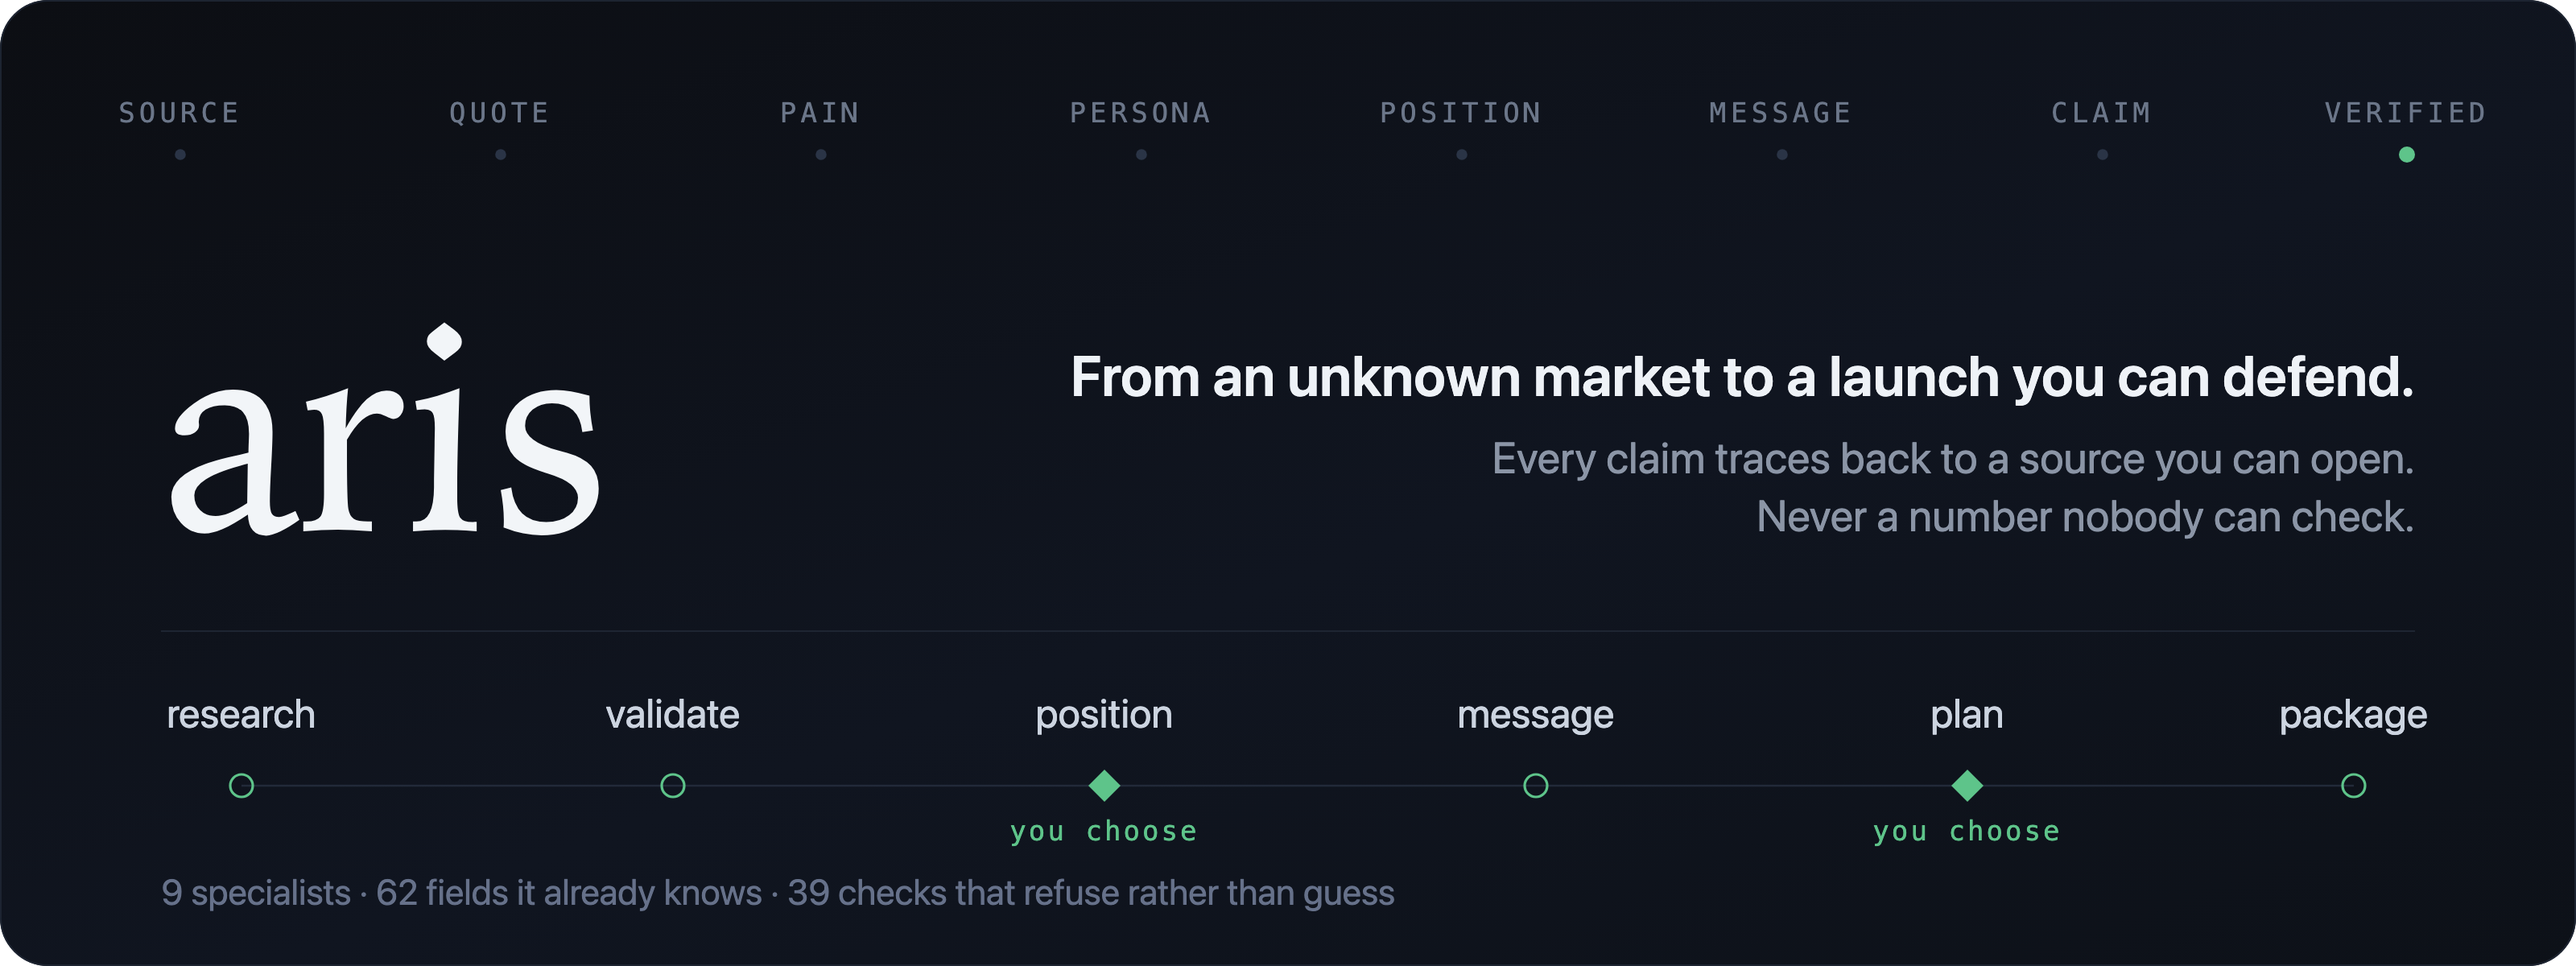
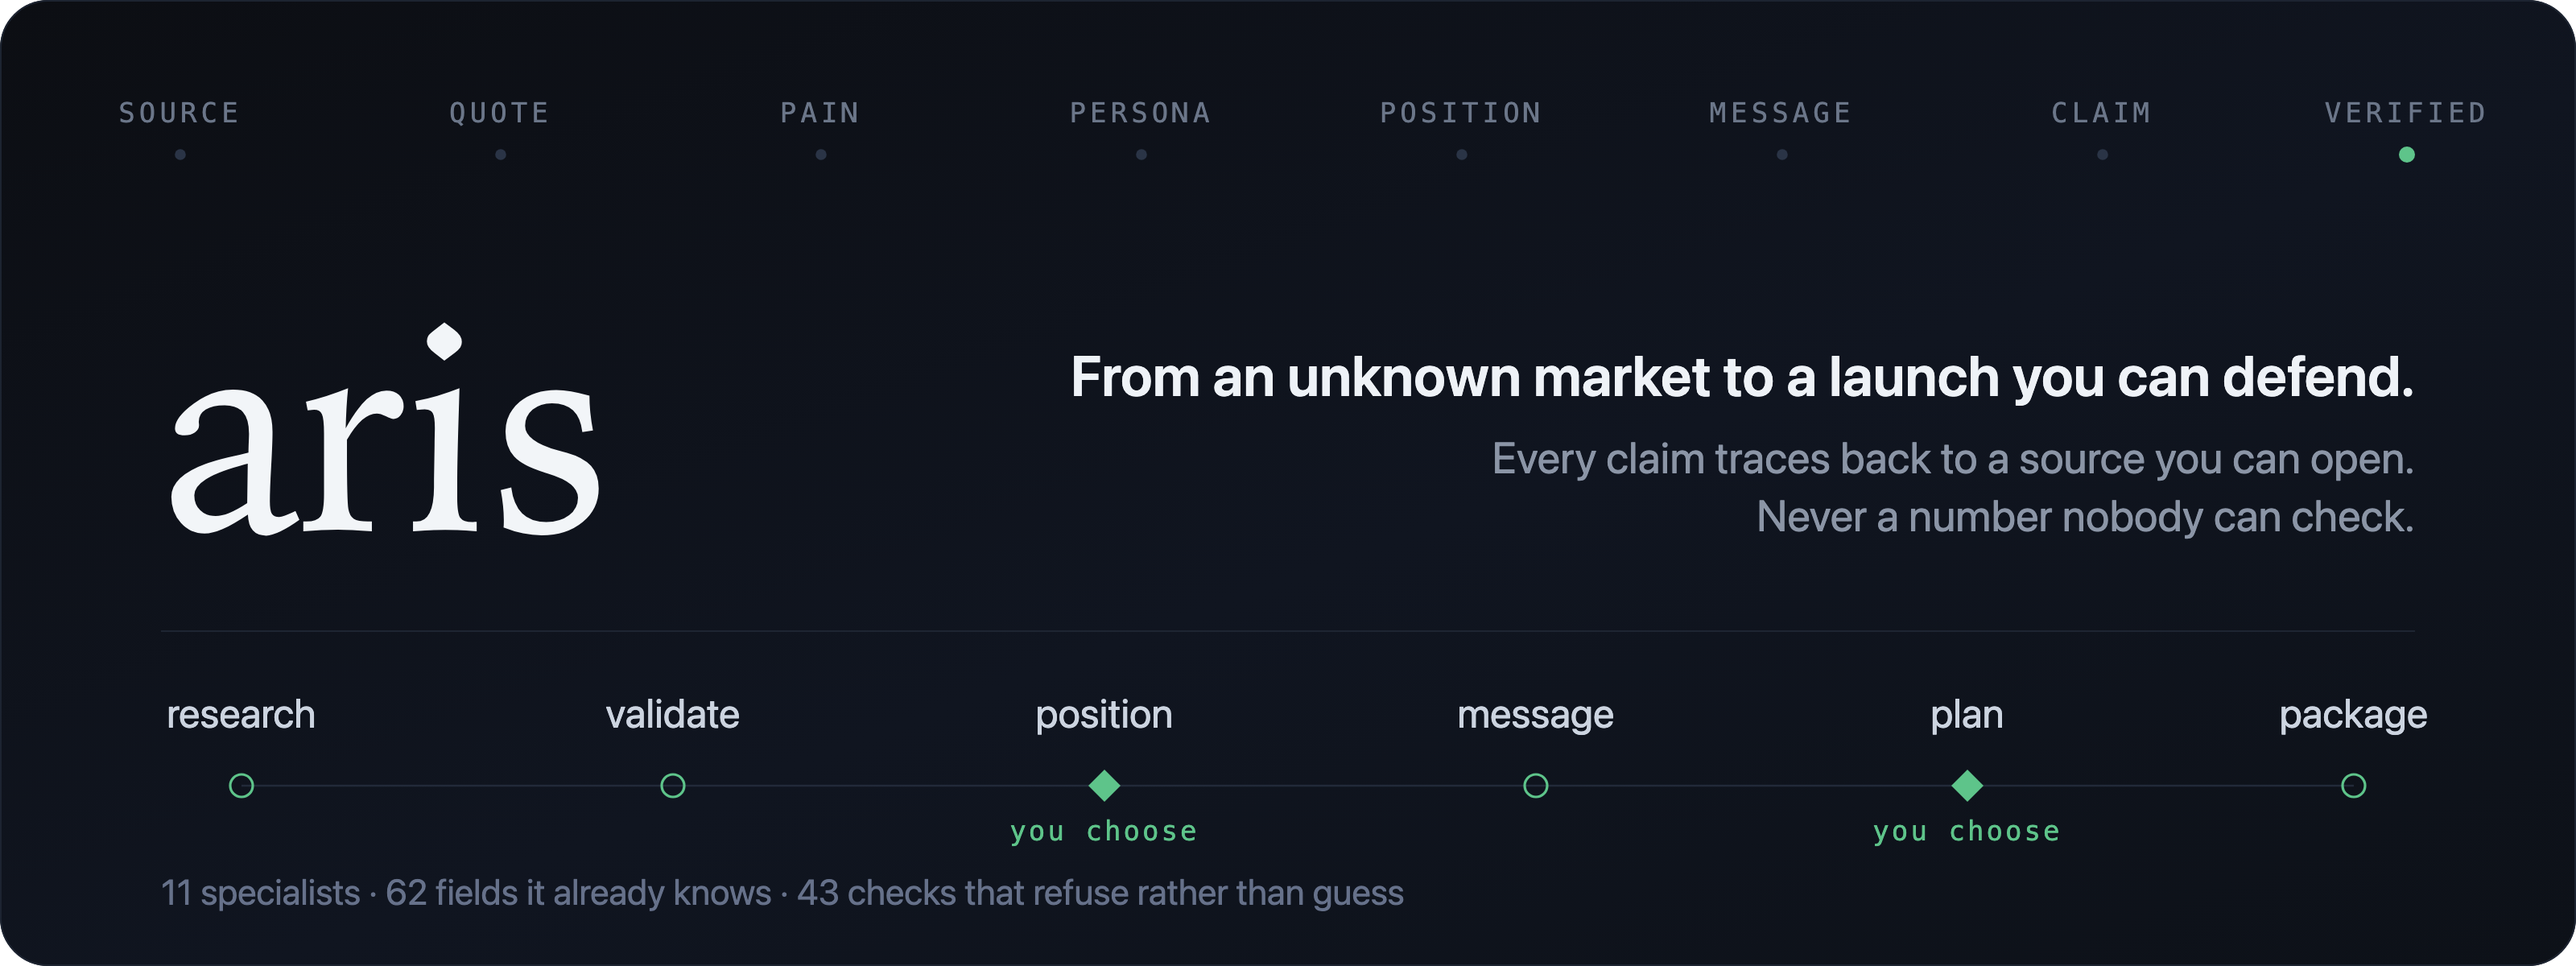
Make the README describe what the plugin actually is
Every number in it had drifted, and the largest claim was simply false.

It said the commands had never been run against a real market. They have, once,
end to end, and that run changed the tool more than any amount of design did.
The status section now says so and lists the four findings someone should know
before their first run: the big review sites return 403 and most sector entries
point at them; prices are often injected by JavaScript so a fetch returning no
number has proved nothing; letting the model choose competitors picks whoever
has the best international SEO and misses the local incumbent a buyer already
owns; and the run was stopped by its user because the research step dispatched
one deep agent per competitor.

Numbers corrected: 9 specialists to 11, 39 checks to 43, on both the badges and
the banner. /aris-runway and /aris-evidence existed but appeared nowhere, so
nobody reading the README could have found them.

The flow diagram stopped at the launch, which was accurate when every asset was
acquisition and is not any more. It now carries through to keeping the people
who arrive.

Changed region(s): [[0.0625, 0.8942, 0.5625, 0.9558]]

diff --git a/README.md b/README.md
@@ -11,8 +11,8 @@
 <p align="center">
   <img src="https://img.shields.io/badge/version-0.1.0-4c566b?style=flat-square&labelColor=161b25" alt="version 0.1.0">
   <img src="https://img.shields.io/badge/fields-62-4c566b?style=flat-square&labelColor=161b25" alt="fields 62">
-  <img src="https://img.shields.io/badge/specialists-9-4c566b?style=flat-square&labelColor=161b25" alt="specialists 9">
-  <img src="https://img.shields.io/badge/checks-39%20fail--closed-4c566b?style=flat-square&labelColor=161b25" alt="39 checks, fail-closed">
+  <img src="https://img.shields.io/badge/specialists-11-4c566b?style=flat-square&labelColor=161b25" alt="specialists 11">
+  <img src="https://img.shields.io/badge/checks-43%20fail--closed-4c566b?style=flat-square&labelColor=161b25" alt="43 checks, fail-closed">
   <img src="https://img.shields.io/badge/licence-MIT-4c566b?style=flat-square&labelColor=161b25" alt="MIT licence">
 </p>
 
@@ -27,18 +27,21 @@ you open in a browser where **clicking any sentence shows you the source it came
 ## How it runs
 
 ```
-     you                                                              you
-   describe                                                         review
-      │                                                                │
-      ▼                                                                ▼
-  ┌────────┐   ┌──────────┐   ┌──────────┐   ┌─────────┐   ┌──────┐   ┌─────────┐
-  │research│──▶│ validate │──▶│ position │──▶│ message │──▶│ plan │──▶│ package │
-  └────────┘   └──────────┘   └────┬─────┘   └─────────┘   └──┬───┘   └─────────┘
-   who else       is there         │           what do        │         one HTML
-   is here,       demand,          ▼           we say         ▼         file you
-   what hurts     and for whom  you choose                 you choose   can share
-                                the direction              channels
-                                                           and price
+     you                                                        you        you
+   describe                                                   review     decide
+      │                                                          │          │
+      ▼                                                          ▼          ▼
+  ┌────────┐   ┌──────────┐   ┌─────────┐   ┌──────┐   ┌─────────┐   ┌────────┐
+  │research│──▶│ position │──▶│ message │──▶│ plan │──▶│ package │──▶│ launch │
+  └────────┘   └────┬─────┘   └─────────┘   └──┬───┘   └─────────┘   └───┬────┘
+   who else         │           what do        │         one page        │
+   is here,         ▼           we say         ▼         you can         ▼
+   what hurts   you choose                 you choose    share       ┌────────┐
+                the direction              channels                  │  keep  │
+                                           and price                 │  them  │
+                                                                     └────────┘
+                                                              activation, retention,
+                                                              twelve weeks of cadence
 ```
 
 It stops **only** where a person has a real choice, and shows you options it has already
@@ -159,7 +162,7 @@ claim fails closed, and `/aris-sector <name>` researches it properly.
 
 ## The specialists
 
-Nine roles, dispatched in parallel, each seeing only its own slice:
+Eleven roles, dispatched in parallel, each seeing only its own slice:
 
 | | |
 |:--|:--|
@@ -170,10 +173,11 @@ Nine roles, dispatched in parallel, each seeing only its own slice:
 | `aris-channel-analyst` | one per channel — argues its case, never ranks the others |
 | `aris-evaluator` | one per persona — tests the messaging against that persona's evidence |
 | `aris-copywriter` | one per asset — the only one with Write, and it cannot invent a claim |
+| `aris-claim-verifier` | **opens each cited page and answers whether it supports that exact sentence** |
 | `aris-compliance-reviewer` | the regulated-claims lens, and it never sees who wrote the copy |
 | `aris-sector-researcher` | bootstraps a field the base doesn't cover |
 
-Seven of the nine have **no Write or Edit**, deliberately. A reviewer who rewrites has
+Nine of the eleven have **no Write or Edit**, deliberately. A reviewer who rewrites has
 already decided how to resolve the finding, and that decision isn't theirs: "clinically
 proven" can be fixed by citing a trial or by deleting the claim, and those are
 completely different products.
@@ -204,10 +208,12 @@ Honest limits, because they matter more than the feature list:
 | `/aris-status` | where this project stands |
 | `/aris-verify` | run every check |
 | `/aris-setup` | check and fix what's missing |
+| `/aris-evidence` | what a run could not read, and how to hand it over yourself |
+| `/aris-runway` | the ninety days after launch |
 
 The fifteen individual steps — `/aris-category`, `/aris-voc`, `/aris-personas`,
 `/aris-size`, `/aris-demand`, `/aris-position`, `/aris-messages`, `/aris-gtm`,
-`/aris-assets`, `/aris-harness`, `/aris-playbook`, `/aris-package` — can each be run on
+`/aris-assets`, `/aris-harness`, `/aris-playbook`, `/aris-runway`, `/aris-package` — can each be run on
 their own. Every one states what it needs and stops if that's missing, naming the
 command that produces it.
 
@@ -273,10 +279,27 @@ without either.
 
 ## Status
 
-**v0.1.0.** The scripts, hooks, sector knowledge, HTML generator and test suite are
-built and passing. The commands are written but have **not yet been run against a real
-market** — the first live run is what will calibrate the quote thresholds and show
-whether each sector's research targets are the right ones.
+**v0.1.0.** Run once, end to end, against a real product in a real market. That run
+changed the tool more than any amount of design did, and the findings worth knowing
+before you use it are these:
+
+- **The big review sites block automated fetching.** G2, Capterra and TrustRadius all
+  return 403, and most sector entries name them as the primary place to look. Use
+  `/aris-evidence` when it happens; a blocked source becomes a two-minute paste rather
+  than a silent gap, and a thin result must never be reported as a quiet market.
+- **Prices are frequently unreadable by a plain fetch**, injected by JavaScript and
+  chosen by the visitor's country. A fetch that returns no number has not proved the
+  price is unpublished.
+- **Do not let the model pick the competitors.** It picks whoever has the best
+  international SEO and misses the local incumbent a buyer already owns — which is the
+  one whose absence wrecks a positioning. `/aris-category` discovers them in the
+  market's own language first.
+- **The run was stopped by its user partway through**, because the research step
+  dispatched one deep agent per competitor. Every fan-out now has a hard budget and a
+  cheap default, and depth is something you ask for.
+
+The quote thresholds have still only been exercised on one market, and every sector's
+`priceBands` are deliberately null until a run cites them.
 
 Built on the shape of [pica](https://github.com/vqdungwork/pica) by Dung Vuong: state
 on disk, rules loaded by name, and gates enforced by script rather than by good
